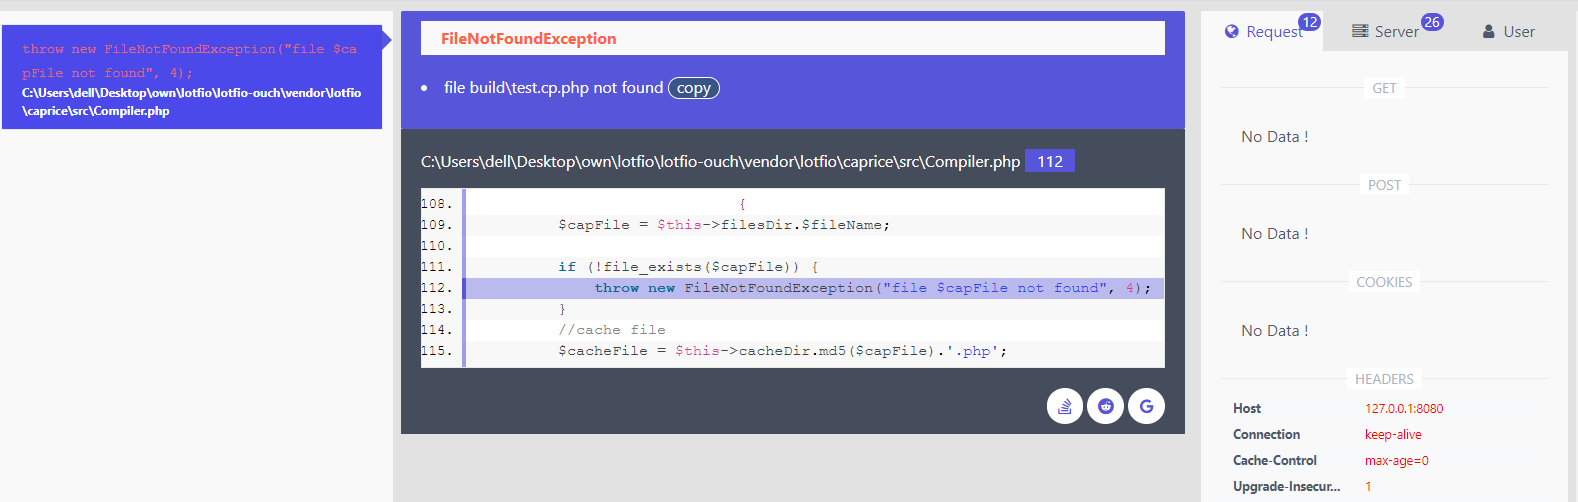
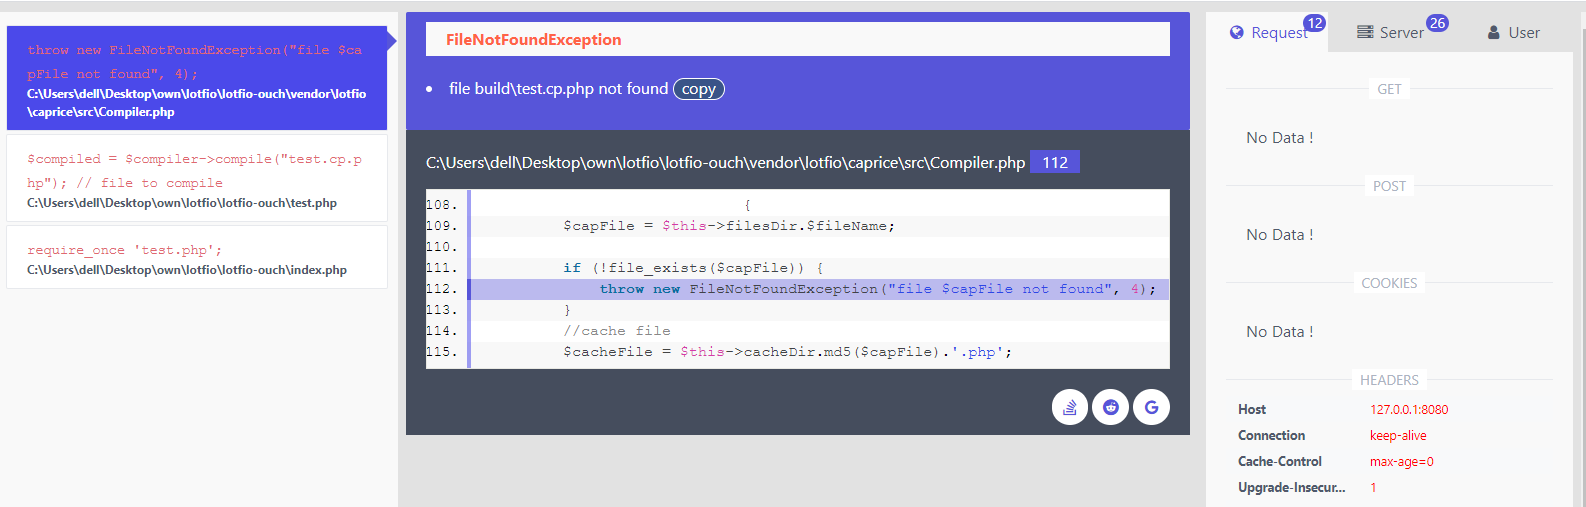
fix view

diff --git a/src/Ouch/resources/views/500.php b/src/Ouch/resources/views/500.php
@@ -39,8 +39,17 @@
             </div>
         </div>
 
+        <?php $i = 1; foreach ($ex->trace as $tr) { ?>
 
-            
+        <div class="panel exp-panel" id="exp-<?=$i?>">
+            <div class="panel-body">
+                <code><?=htmlentities(readErrorLine($tr['file'], $tr['line']), ENT_QUOTES, 'UTF-8')?></code>
+                <p><?=$tr['file']?></p>
+            </div>
+        </div>
+
+        <?php $i++; } ?>
+
 
         </div>
 

diff --git a/README.md b/README.md
@@ -10,7 +10,7 @@
 
 ![licence](https://img.shields.io/badge/Licence-MIT-yellow.svg)
 ![language](https://img.shields.io/badge/PHP-7-blue.svg)
-![version](https://img.shields.io/badge/Version-0.2.0-red.svg)
+![version](https://img.shields.io/badge/Version-0.3.1-red.svg)
 ![coverage](https://img.shields.io/badge/coverage-30%25-blue.svg)
 ![build](https://travis-ci.org/lotfio/ouch.svg?branch=develop)
 [![StyleCI](https://github.styleci.io/repos/117599927/shield?branch=develop)](https://github.styleci.io/repos/117599927)

diff --git a/CHANGELOG.md b/CHANGELOG.md
@@ -16,3 +16,6 @@
  - fix duplicate cli errors
  - new http error interface
  - adding support for environments (dev, pro)
+
+#0.3.1
+ - fix exceptions trace view
